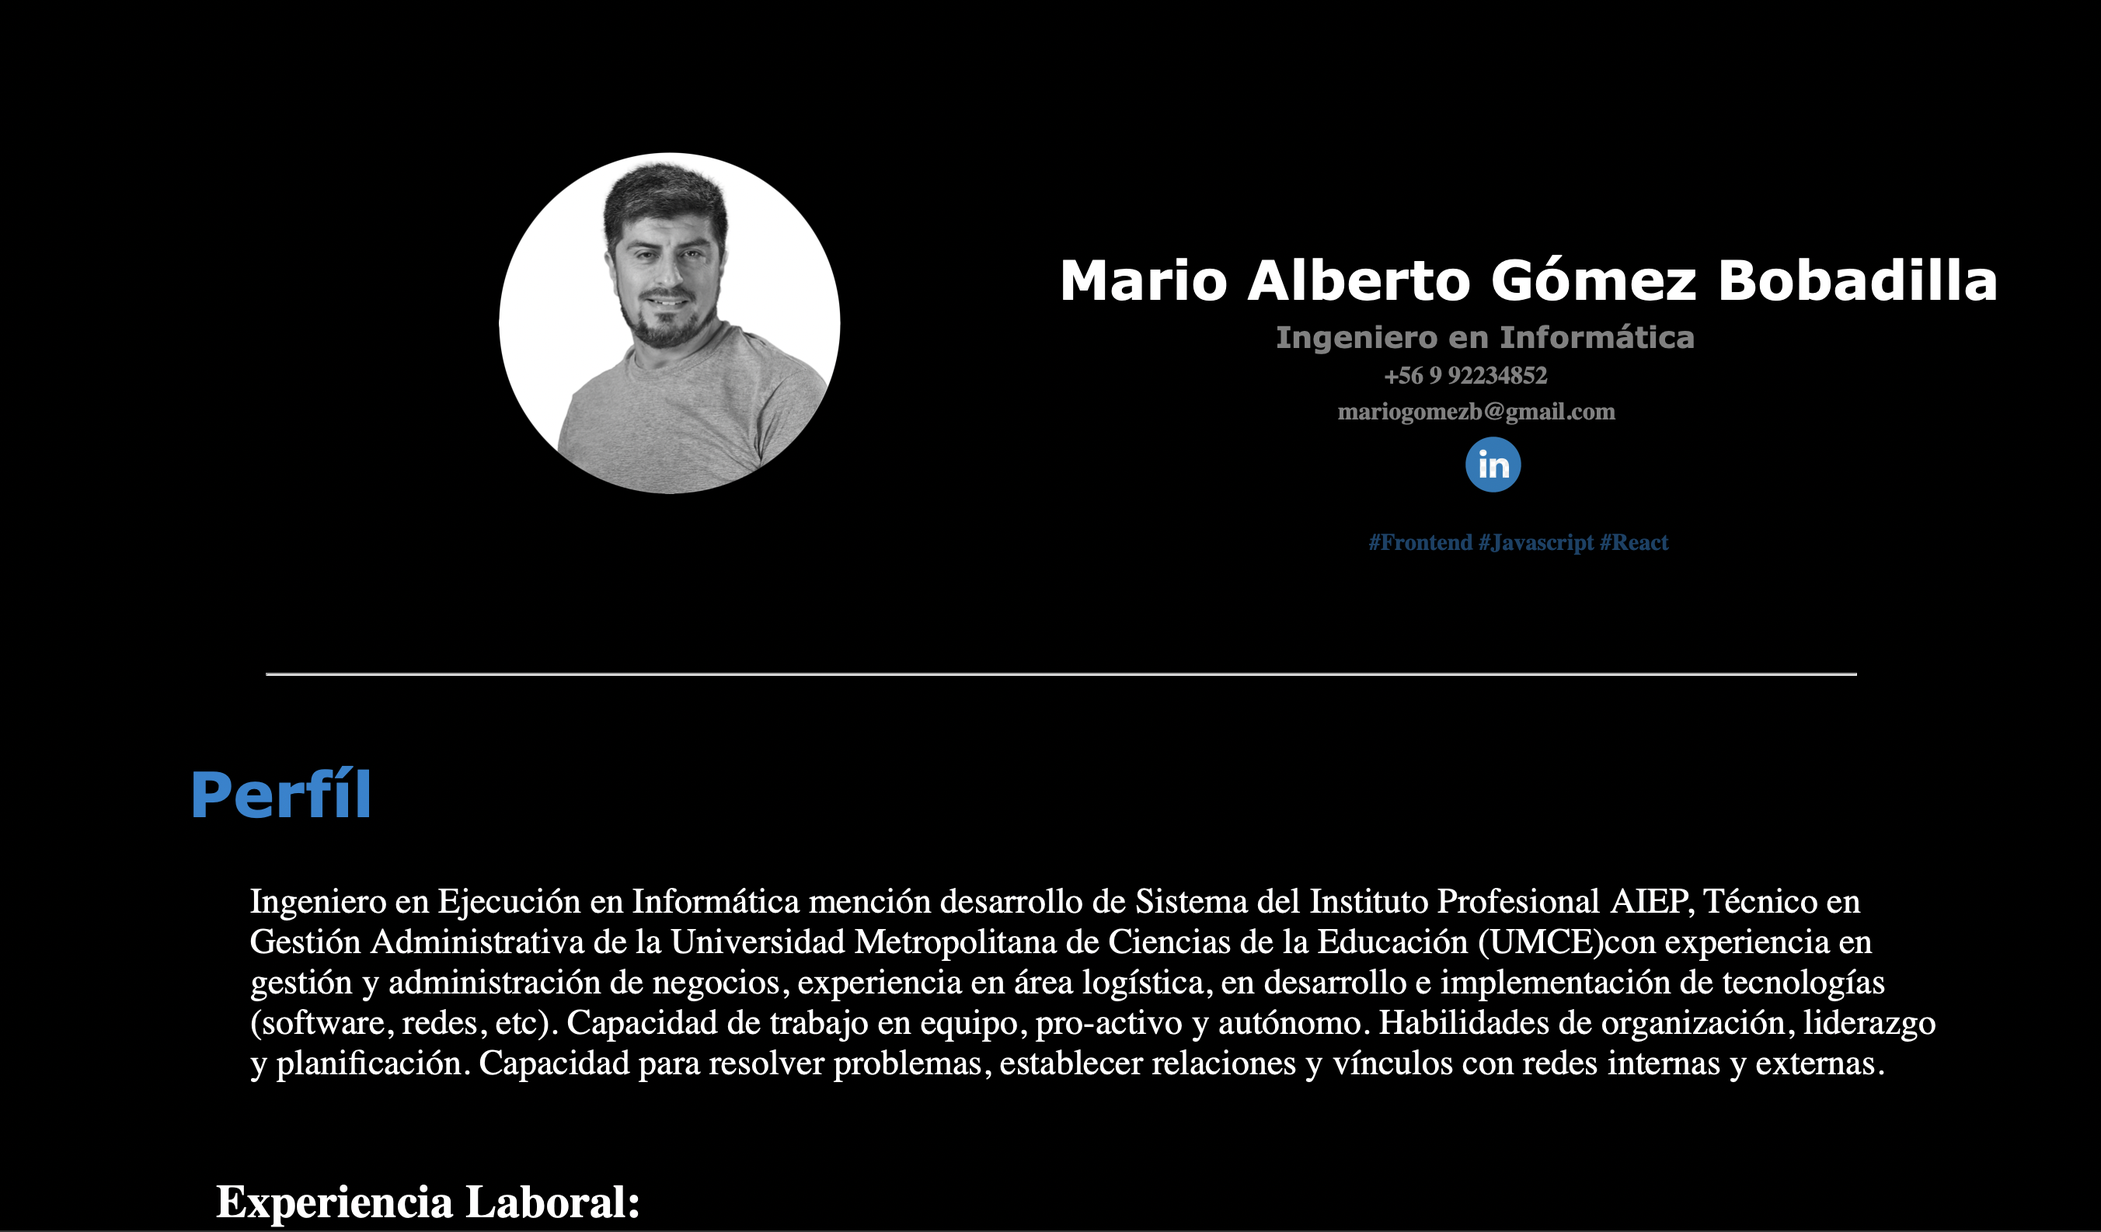
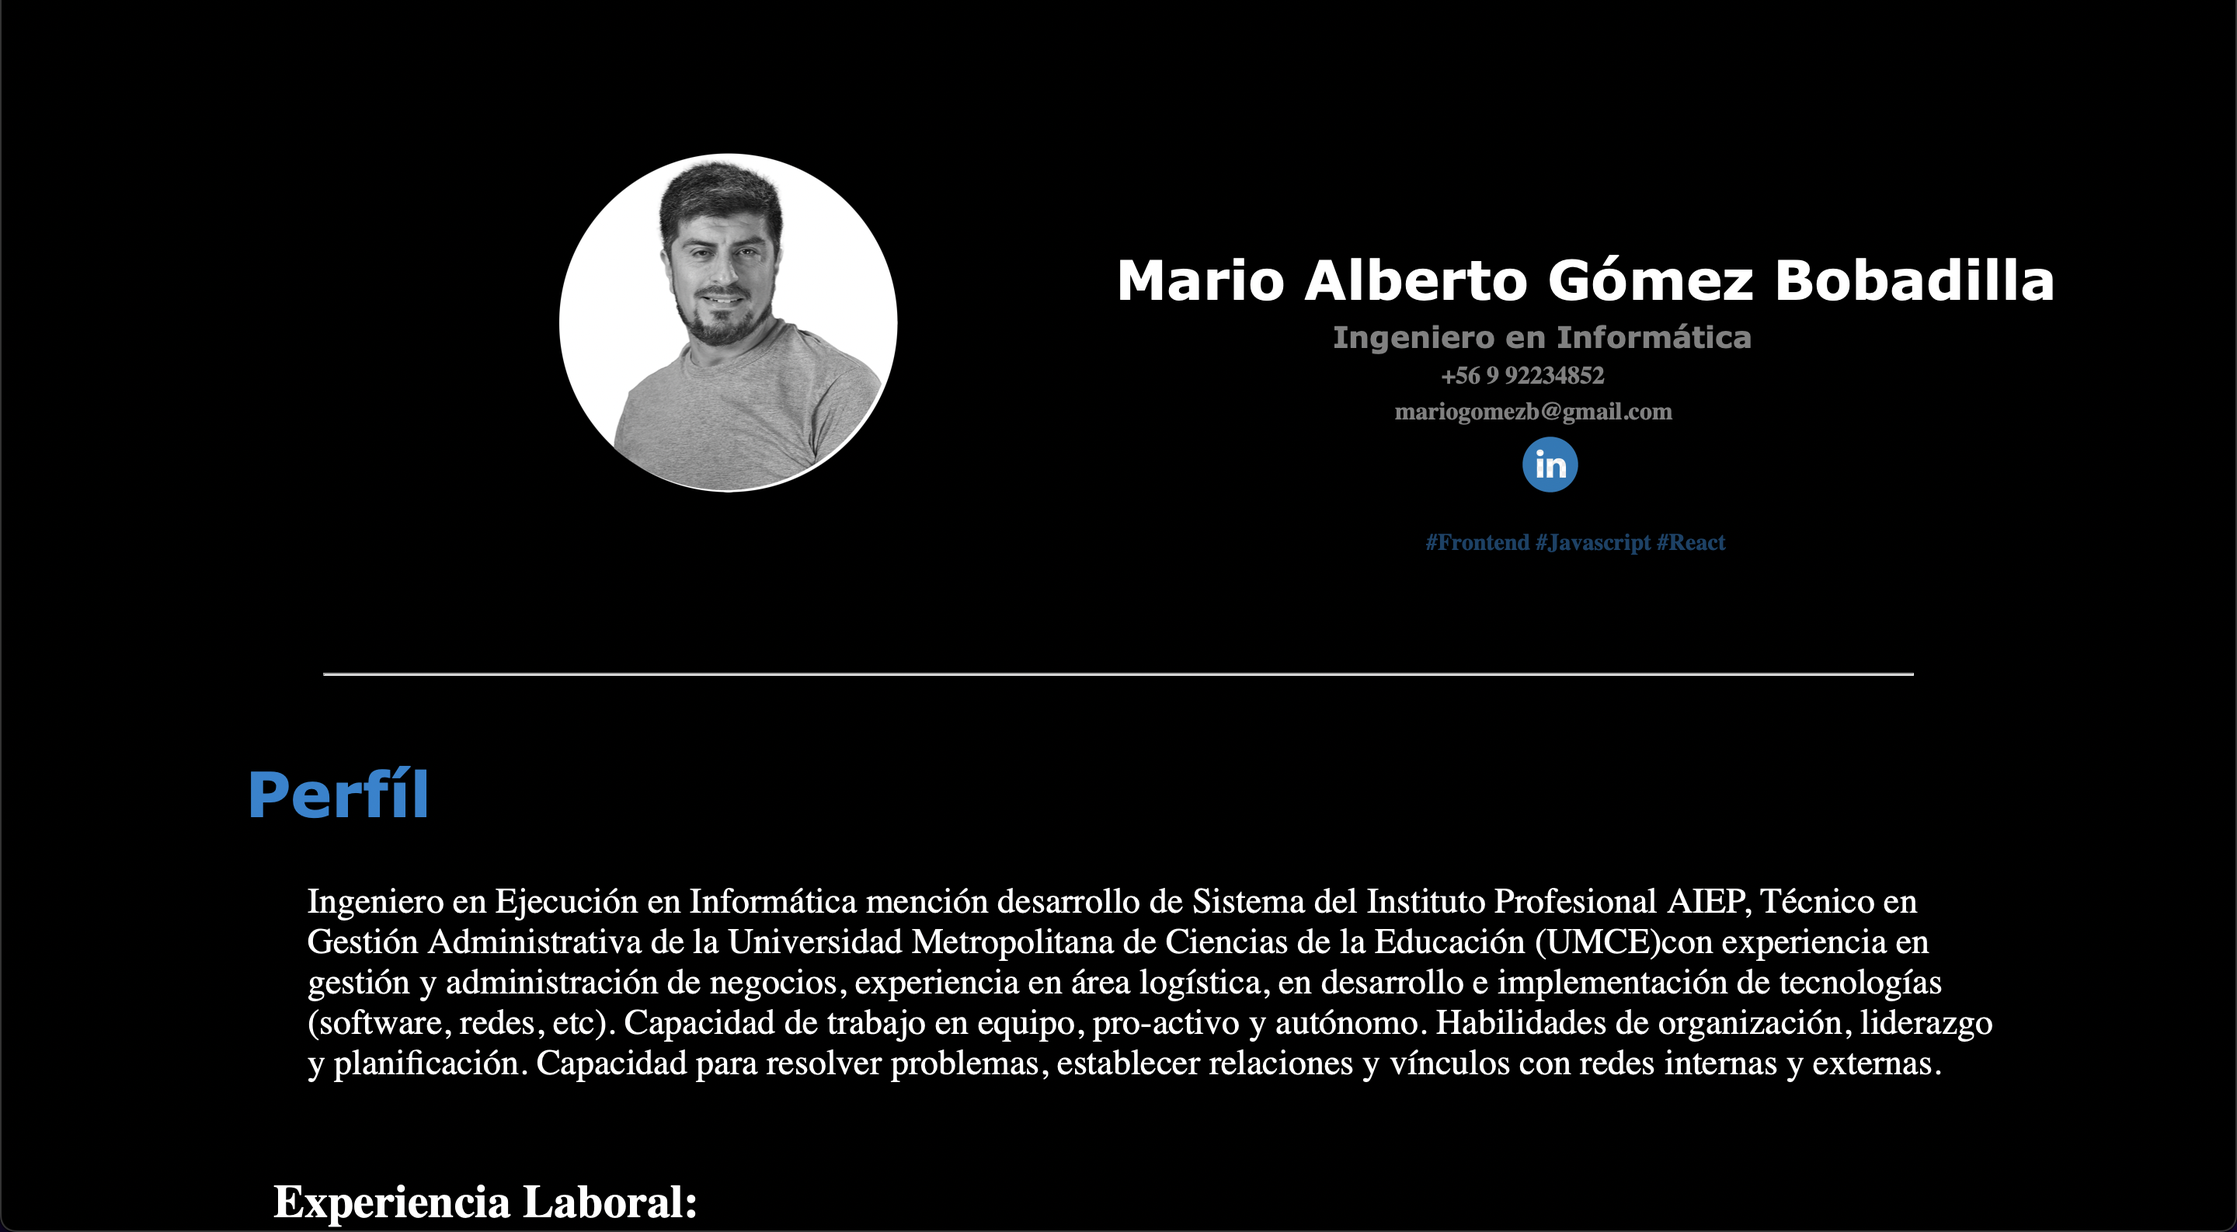
ultimos cambios

diff --git a/portafolio.html b/portafolio.html
@@ -16,12 +16,12 @@
       crossorigin="anonymous"
     />
     <!--google fonts-->
-    <link rel="preconnect" href="https://fonts.googleapis.com" />
-    <link rel="preconnect" href="https://fonts.gstatic.com" crossorigin />
-    <link
-      href="https://fonts.googleapis.com/css2?family=Balsamiq+Sans&family=Rubik&family=Shadows+Into+Light&display=swap"
-      rel="stylesheet"
-    />
+    <link rel="preconnect" href="https://fonts.googleapis.com">
+    <link rel="preconnect" href="https://fonts.gstatic.com" crossorigin>
+    <link href="https://fonts.googleapis.com/css2?family=Balsamiq+Sans&family=Rubik&family=Shadows+Into+Light&display=swap" rel="stylesheet">
+
+    <!--cdn font awesome-->
+    <link rel="stylesheet" href="https://cdnjs.cloudflare.com/ajax/libs/font-awesome/6.1.2/css/all.min.css" integrity="sha512-1sCRPdkRXhBV2PBLUdRb4tMg1w2YPf37qatUFeS7zlBy7jJI8Lf4VHwWfZZfpXtYSLy85pkm9GaYVYMfw5BC1A==" crossorigin="anonymous" referrerpolicy="no-referrer" />
   </head>
   <body class="container">
     <div class="row container mt-5 rounded-3">
@@ -50,163 +50,130 @@
           </div>
         </nav>
       </header>
-      <div class="row fondoDatos">
-      <h1 class="text-center text-white mt-3">Algunos de mis trabajos</h1>
-    <section>
-      <div class="row text-center mt-3">
-        <h2 class="text-info">Sitio con wordpres y Elementor pro</h2>
-      </div>
-      <div class="row text-center">
-        <div class="col-xs-12 col-sm-12 col-lg-12">
-          <img src="./Assets/img/WordPress.png" width="40px" /><img
-            src="./Assets/img/elementor.png"
-            width="120px"
-          />
-        </div>
-      </div>
-      <div class="row justify-content-center mt-3">
-        <div class="col-xs-12 col-sm-6 col-lg-4 text-center">
-          <img
-            src="./Assets/img/SlamProject.png"
-            class="rounded-2"
-            width="250px"
-          />
-          <div class="row justify-content-center mt-3">
-            <div class="col-xs- col-sm-6 col-lg-6">
-              <a href="https://www.slamproject.cl" class="text-decoration-nne text-info" target="_blank"><h6>Ver +</h6></a>
-            </div>
+      <div class="row bg-dark rounded-3 pb-5">
+      <section class="container">
+        <h1 class="text-white text-center">Algunos de mis trabajos</h1>
+      </section>
+      <section class="container fondoCeleste mt-3 pb-5">
+        <h2 class="text-center text-black-50 pt-3">Sitios con WordPress y Elemetor Pro</h2>
+        <div class="row">
+          <div class="col-xs-12 col-sm-12 col-lg-12 text-center">
+            <img src="./Assets/img/WordPress.png" width="40px" />
+            <img src="./Assets/img/elementor.png" width="120px"/>
           </div>
         </div>
-          <div class="col-xs-12 col-sm-6 col-lg-4 text-center mt-3">
-            <img
-              src="./Assets/img/musiorganica.png"
-              class="rounded-2"
-              width="270px"
-            />
-            <div class="row justify-content-center mt-3">
-              <div class="col-xs-12 col-sm-6 col-lg-6">
-                <a href="https://www.musiorganica.cl" class="text-decoration-nne text-info" target="_blank"><h6>Ver +</h6></a>
+        <div class="row justify-content-center">
+          <div class="col-xs-12 col-sm-6 col-lg-3 mt-3 text-center">
+            <div class="card" style="width: 18rem;">
+              <img src="./Assets/img/SlamProject.png" class="card-img-top" alt="Pantallazo Slan Project">
+              <div class="card-body">
+                <h5 class="card-title text-center">Slam Project</h5>
+                <a href="https://slamproject.cl/" target="_blank" class="btn btn-primary botones">Ir al Sitio</a>
               </div>
             </div>
           </div>
-          <div class="col-xs-12 col-sm-6 col-lg-4 text-center mt-3">
-            <img
-              src="./Assets/img/mariogomezbfotografia.png"
-              class="rounded-2"
-              width="270px"
-            />
-            <div class="row justify-content-center mt-3">
-              <div class="col-xs-12 col-sm-6 col-lg-6">
-                <a href="https://www.mariogomezbfotografia.cl" class="text-decoration-nne text-info" target="_blank"><h6>Ver +</h6></a>
+          <div class="col-xs-12 col-sm-6 col-lg-3 mt-3 text-center">
+            <div class="card" style="width: 18rem;">
+              <img src="./Assets/img/musiorganica.png" class="card-img-top" alt="Pantallazo Musiorganica">
+              <div class="card-body">
+                <h5 class="card-title text-center">Musiorganica</h5>
+                <a href="https://musiorganica.cl/" target="_blank" class="btn btn-primary botones">Ir al Sitio</a>
               </div>
             </div>
           </div>
-      </div>
-    </section>
-    <section>
-      <div class="row text-center mt-5">
-        <h2 class="text-info">Sitio con HTML - CSS - BOOTSTRAP</h2>
-      </div>
-      <div class="row text-center">
-        <div class="col-xs-12 col-sm-12 col-lg-12 mb-3 align-baseline">
-          <img src="./Assets/img/html.png" width="40px" />
-          <img src="./Assets/img/CSS3.png" width="30px"/>
-          <img src="./Assets/img/Bootstrap.png" width="43px"/>
-        </div>
-      </div>
-      <div class="row justify-content-center mt-3">
-        <div class="col-xs-12 col-sm-6 col-lg-4 text-center">
-          <img
-            src="./Assets/img/agencialamakina.png"
-            class="rounded-2"
-            width="270px"
-          />
-          <div class="row justify-content-center mt-3">
-            <div class="col-xs- col-sm-6 col-lg-6">
-              <a href="https://www.agencialamakina.cl" class="text-decoration-nne text-info" target="_blank"><h6>Ver +</h6></a>
+          <div class="col-xs-12 col-sm-6 col-lg-3 mt-3 text-center">
+            <div class="card" style="width: 18rem;">
+              <img src="./Assets/img/mariogomezbfotografia.png" class="card-img-top" alt="Pantallazo mariogomezbfotografia">
+              <div class="card-body">
+                <h5 class="card-title text-center">MarioGómezB Fotografía</h5>
+                <a href="https://mariogomezbfotografia.cl" target="_blank" class="btn btn-primary botones">Ir al Sitio</a>
+              </div>
             </div>
           </div>
         </div>
-          <div class="col-xs-12 col-sm-6 col-lg-4 text-center mt-3">
-            <img
-              src="./Assets/img/kinelec.png"
-              class="rounded-2"
-              width="270px"
-            />
-            <div class="row justify-content-center mt-3">
-              <div class="col-xs-12 col-sm-6 col-lg-6">
-                <a href="https://www.agencialamakina.cl/kinelec" class="text-decoration-nne text-info" target="_blank"><h6>Ver +</h6></a>
+      </section>
+      <section class="container fondoCeleste mt-3 pb-5">
+          <h2 class="text-center text-black-50 mt-3">Sitio con HTML - CSS - BOOTSTRAP</h2>
+          <div class="row">
+            <div class="col-xs-12 col-sm-12 col-lg-12 mb-3 align-baseline text-center">
+              <img src="./Assets/img/html.png" width="40px" />
+              <img src="./Assets/img/CSS3.png" width="30px"/>
+              <img src="./Assets/img/Bootstrap.png" width="43px"/>
+            </div>
+          </div>
+          <div class="row justify-content-center">
+            <div class="col-xs-12 col-sm-6 col-lg-3 mt-3 text-center">
+              <div class="card" style="width: 18rem;">
+                <img src="./Assets/img/agencialamakina.png" class="card-img-top" alt="Pantallazo Musiorganica">
+                <div class="card-body">
+                  <h5 class="card-title text-center">Agencia La Makina</h5>
+                  <a href="https://www.agencialamakina.cl" target="_blank" class="btn btn-primary botones">Ir al Sitio</a>
+                </div>
+              </div>
+            </div>
+            <div class="col-xs-12 col-sm-6 col-lg-3 mt-3 text-center">
+              <div class="card" style="width: 18rem;">
+                <img src="./Assets/img/kinelec.png" class="card-img-top" alt="Pantallazo Musiorganica">
+                <div class="card-body">
+                  <h5 class="card-title text-center">Kinelec</h5>
+                  <a href="https://www.agencialamakina.cl/kinelec/" target="_blank" class="btn btn-primary botones">Ir al Sitio</a>
+                </div>
               </div>
             </div>
           </div>
-      </div>
-    </section>
-    <section>
-      <div class="row text-center mt-5">
-        <h2 class="text-info">Algunos desafios de bootcamp Front End Latam</h2>
-      </div>
-      <div class="row text-center">
-        <div class="col-xs-12 col-sm-12 col-lg-12 mb-3 align-baseline">
-          <img src="./Assets/img/html.png" width="40px" />
-          <img src="./Assets/img/CSS3.png" width="30px"/>
-          <img src="./Assets/img/Bootstrap.png" width="43px"/>
-        </div>
-      </div>
-      <div class="row justify-content-center">
-        <div class="col-xs-12 col-sm-6 col-lg-4 text-center mt-3">
-          <img
-            src="./Assets/img/cv.png"
-            class="rounded-2"
-            width="270px"
-          />
-          <div class="row justify-content-center mt-3">
-            <div class="col-xs- col-sm-6 col-lg-3">
-              <a href="https://mariogomezb.github.io/cv.github.io/" class="text-decoration-nne text-info" target="_blank"><h6>Ver +</h6></a>
+      </section>
+      <section class="container fondoCeleste mt-3 pb-5">
+          <h2 class="text-center text-black-50 mt-3">Algunos desafios de curso Front End Latam</h2>
+          <div class="row">
+            <div class="col-xs-12 col-sm-12 col-lg-12 mb-3 align-baseline text-center">
+              <img src="./Assets/img/html.png" width="40px" />
+              <img src="./Assets/img/CSS3.png" width="30px"/>
+              <img src="./Assets/img/Bootstrap.png" width="43px"/>
             </div>
           </div>
-        </div>
-          <div class="col-xs-12 col-sm-6 col-lg-4 text-center mt-3">
-            <img
-              src="./Assets/img/landingPage.png"
-              class="rounded-2"
-              width="285px"
-            />
-            <div class="row justify-content-center mt-3">
-              <div class="col-xs-12 col-sm-6 col-lg-3">
-                <a href="https://mariogomezb.github.io/landingpage.github.com/" class="text-decoration-nne text-info" target="_blank"><h6>Ver +</h6></a>
+          <div class="row">
+            <div class="col-xs-12 col-sm-6 col-lg-3 text-center">
+              <div class="card" style="width: 18rem;">
+                <img src="./Assets/img/cv.png" class="card-img-top" alt="Pantallazo CV">
+                <div class="card-body">
+                  <h5 class="card-title text-center">CV</h5>
+                  <a href="https://mariogomezb.github.io/cv.github.io/" target="_blank" class="btn btn-primary botones">Ir al Sitio</a>
+                </div>
+              </div>
+            </div>
+            <div class="col-xs-12 col-sm-6 col-lg-3 text-center">
+              <div class="card" style="width: 18rem;">
+                <img src="./Assets/img/landingPage.png" class="card-img-top" alt="Pantallazo Landing Page">
+                <div class="card-body">
+                  <h5 class="card-title text-center">Landing Page</h5>
+                  <a href="https://mariogomezb.github.io/landingpage.github.com/" target="_blank" class="btn btn-primary botones">Ir al Sitio</a>
+                </div>
+              </div> 
+            </div>
+            <div class="col-xs-12 col-sm-6 col-lg-3 text-center">
+              <div class="card" style="width: 18rem;">
+                <img src="./Assets/img/cuppon.png" class="card-img-top" alt="Pantallazo Cuppon">
+                <div class="card-body">
+                  <h5 class="card-title text-center">Cuppon</h5>
+                  <a href="https://mariogomezb.github.io/cuppon.github.io/" target="_blank" class="btn btn-primary botones">Ir al Sitio</a>
+                </div>
+              </div>
+            </div>
+            <div class="col-xs-12 col-sm-6 col-lg-3 text-center">
+              <div class="card" style="width: 18rem;">
+                <img src="./Assets/img/igunaPage.png" class="card-img-top" alt="Pantallazo Iguana Page">
+                <div class="card-body">
+                  <h5 class="card-title text-center">Iguana Page</h5>
+                  <a href="https://mariogomezb.github.io/iguanapage.github.io/" target="_blank" class="btn btn-primary botones">Ir al Sitio</a>
+                </div>
               </div>
             </div>
           </div>
-          <div class="col-xs-12 col-sm-6 col-lg-4 text-center mt-3">
-            <img
-              src="./Assets/img/cuppon.png"
-              class="rounded-2"
-              width="285px"
-            />
-            <div class="row justify-content-center mt-3">
-              <div class="col-xs-12 col-sm-6 col-lg-4">
-                <a href="https://mariogomezb.github.io/cuppon.github.io/" class="text-decoration-nne text-info" target="_blank"><h6>Ver +</h6></a>
-              </div>
-            </div>
-          </div>
-          <div class="col-xs-12 col-sm-6 col-lg-3 text-center mt-3">
-            <img
-              src="./Assets/img/igunaPage.png"
-              class="rounded-2"
-              width="270px"
-            />
-            <div class="row justify-content-center mt-3">
-              <div class="col-xs-12 col-sm-6 col-lg-6">
-                <a href="https://mariogomezb.github.io/iguanapage.github.io/" class="text-decoration-nne text-info" target="_blank"><h6>Ver +</h6></a>
-              </div>
-            </div>
-          </div>
-      </div>
-    </section>
-  </div>
-  <footer class="mt-5">
-    <h4 class="text-center fs-3 p-3 rounded-5"><a href="./index.html" class="text-decoration-none text-info">www.mariogomezdev.cl</a></h4>
-  </footer>
+      </section>
+    </div>
+    <footer class="mt-3">
+      <h4 class="text-center fs-3 p-3 rounded-5"><a href="./index.html" class="text-decoration-none text-info">www.mariogomezdev.cl</a></h4>
+    </footer>
     <!-- JavaScript Bundle with Popper -->
     <script
       src="https://cdn.jsdelivr.net/npm/bootstrap@5.2.0/dist/js/bootstrap.bundle.min.js"

diff --git a/index.html b/index.html
@@ -47,22 +47,26 @@
           </div>
         </nav>
       </header>
-      <section class="container fondoDatos mt-3">
-        <div class="row justify-content-center mb-5">
-          <div class="col-xs-12 col-sm-12 col-lg-6 mt-5">
-            <h1 class="text-center text-white nombre mt-5">
-            Mario A. Gómez Bobadilla
-          </h1>
-          <h3 class="text-center text-white diseñador">Diseñador web</h3>
-          <h5 class="descripcion text-center mt-3">Ingeniero en informática con mención en desarrollo de sistema.</h5>
-          <h5 class="descripcion text-center">Apasionado por el diseño y la fotografía.</h5>
+      <section class="container fondoDatos">
+        <div class="row mt-5 pt-5">
+          <div class="col-xs-12 col-sm-6 col-lg-6">
+            <h1 class="text-white text-center nombre mt-5">Mario A. Gómez Bobadilla</h1>
+            <div class="row">
+              <h3 class="text-center text-white diseñador mt-3">Diseñador web</h3>    
+            </div>
+            <div class="row mt-5">
+              <h3 class="descripcion text-center">Ingeniero en informática con mención en desarrollo de sistemas.</h3>
+                <br>
+                <h3 class="descripcion text-center">
+                Apasionado por el diseño y la fotografía.
+              </h3>
+            </div>
           </div>
-          <div class="col-xs-12 col-sm-12 col-lg-5 text-center">
-            <img src="./Assets/img/Mario2.png" width="300px"/>
+          <div class="col-xs-12 col-sm-6 col-lg-6 text-center mb-5">
+            <img src="./Assets/img/Mario2.png" width="350px" alt="Retrato Mario Gómez Bobadilla">
           </div>
-          </div>
+        </div>
       </section>
-      
     <footer class="mt-5">
       <h4 class="text-center fs-3 p-3 rounded-5"><a href="./index.html" class="text-decoration-none text-info">www.mariogomezdev.cl</a></h4>
     </footer>

diff --git a/about.html b/about.html
@@ -51,8 +51,12 @@
         </nav>
       </header>
       <section class="container fondoDatos">
+        <h4 class="text-white my-5 px-5">Ingeniero en Ejecución en Informática mención desarrollo de Sistema del Instituto Profesional AIEP, Técnico en Gestión Administrativa de la Universidad Metropolitana de Ciencias de la Educación (UMCE)con experiencia en gestión y administración de negocios, experiencia en área logística, en desarrollo e implementación de tecnologías (software, redes, etc). Capacidad de trabajo en equipo, pro-activo y autónomo. Habilidades de organización, liderazgo y planificación. Capacidad para resolver problemas, establecer relaciones y vínculos con redes internas y externas.</h4>
+        <h4 class="text-white ps-5">Actualmente actualizando conocimientos en curso Front End de Desafío LATAM</h4>
+      </section>
+      <section class="container fondoCeleste mt-5">
         <div class="row mt-3">
-          <h3 class="text-center habilidades text-info mt-3">Algunas de mis habilidades</h3>
+          <h3 class="text-center habilidades text-black-50 mt-3">Algunas de mis habilidades</h3>
         </div>
         <div class="row mt-3 justify-content-center align-items-center">
           <div class="col-xs-12 col-sm-6 col-lg-3 text-center">

diff --git a/Assets/css/stylus.css b/Assets/css/stylus.css
@@ -14,12 +14,24 @@ body{
 .textoMenu{
     color: #02C9FF!important;
 }
-.fondoDatos{
-    background-image: url("../img/fondoDatos.jpg") !important;
+
+.fondoIndex{
+    background-image: url("../img/fondoIndex.jpg") !important;
     background-repeat: no-repeat;
     border-radius: 15px;
 }
 
+.fondoDatos{
+    background-image: url("../img/fondo.jpg") !important;
+    background-repeat: no-repeat;
+    border-radius: 15px;
+}
+
+.fondoCeleste{
+    background-image: url("../img/fondoCeleste.jpg");
+    background-repeat: no-repeat;
+    border-radius: 15px;
+}
 .descripcion{
     color: #02C9FF;
 }
@@ -61,7 +73,7 @@ footer{
 }
 
 .botones{
-    background-color: white !important;
+    background-color: #24242B !important;
     color: #1B769C !important;
 }
 
